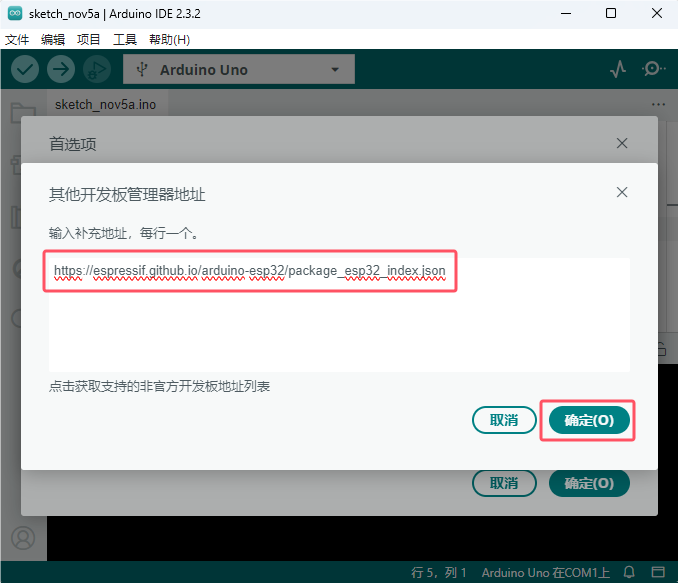
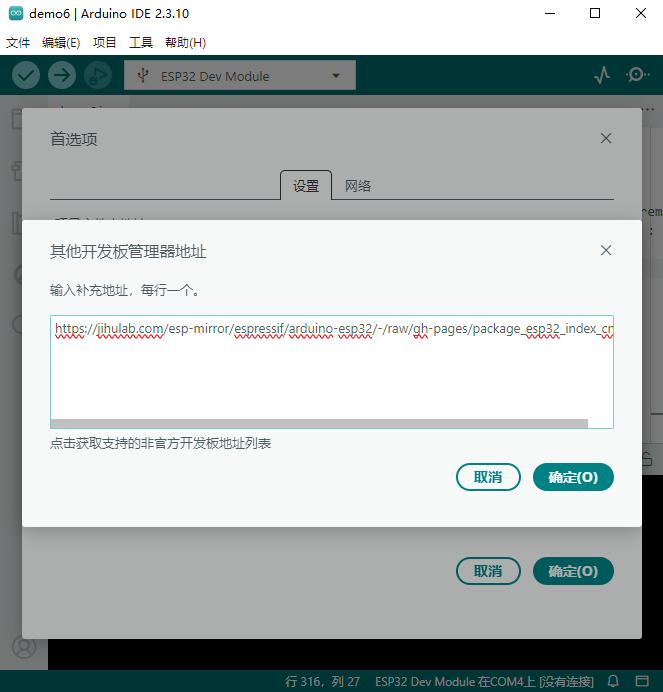
V05-2026-11-13

diff --git a/docs/3.Arduino/Arduino IDE 开发环境.md b/docs/3.Arduino/Arduino IDE 开发环境.md
@@ -96,7 +96,7 @@ Arduino 软件有很多版本，有Windows，Mac，Linux系统的（如下图）
 
 ![Img](./media/dd6d3ea8b8ab77977ff2b2af74dbcdab.png)
 
-(4) 将这个地址：`https://espressif.github.io/arduino-esp32/package_esp32_index.json` 复制粘贴到里面去，再点击 “**确定**” 保存这个地址，如下图：
+(4) 将这个地址：`https://jihulab.com/esp-mirror/espressif/arduino-esp32/-/raw/gh-pages/package_esp32_index_cn.json` 复制粘贴到里面去，再点击 “**确定**” 保存这个地址，如下图：
 
 ![Img](./media/0f4697f40d0e4c73cdaa36a15034e63b.png)
 
